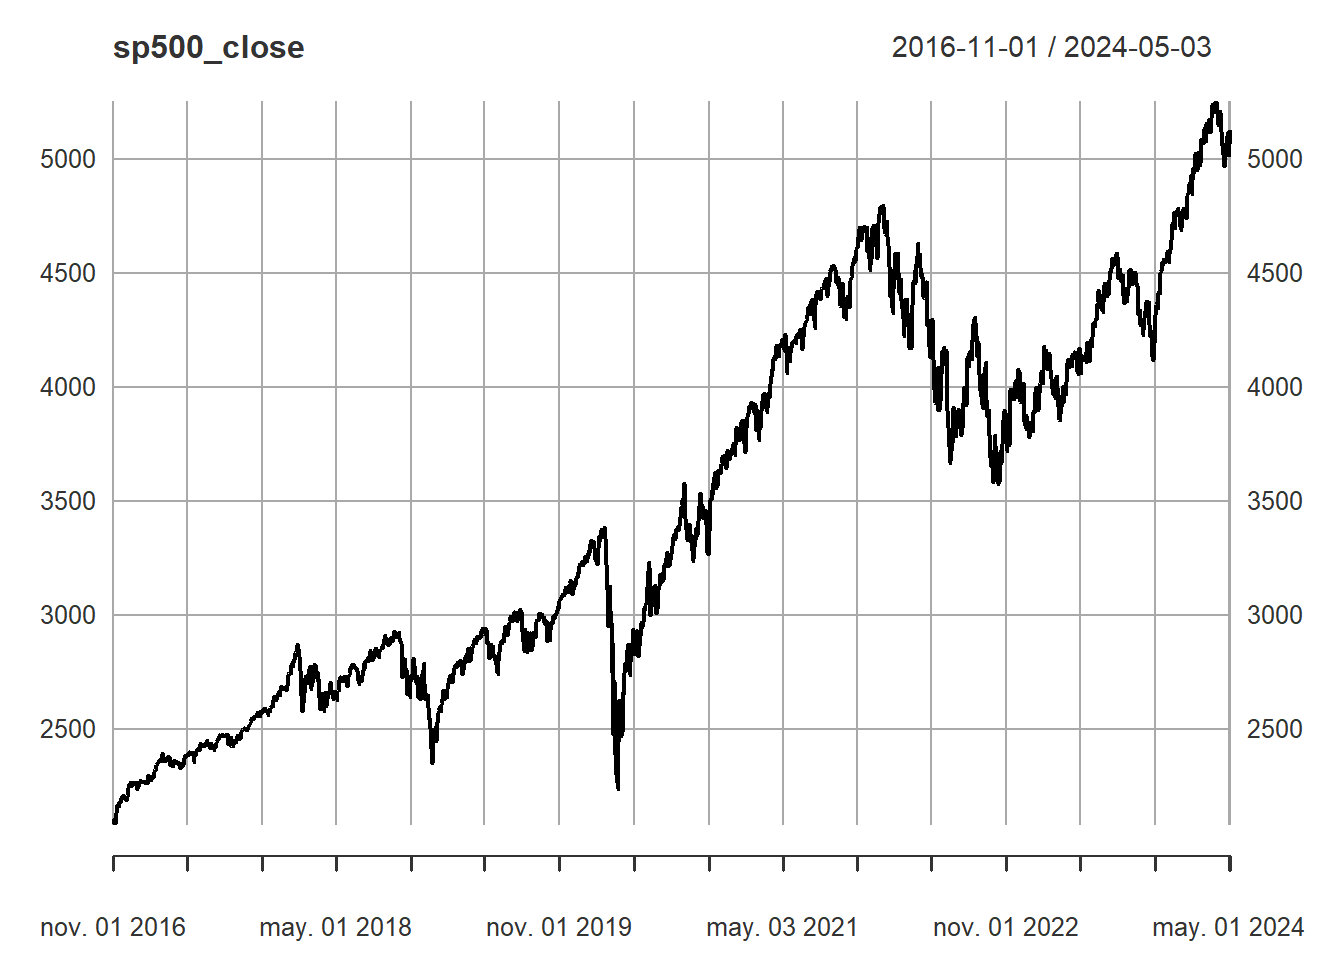
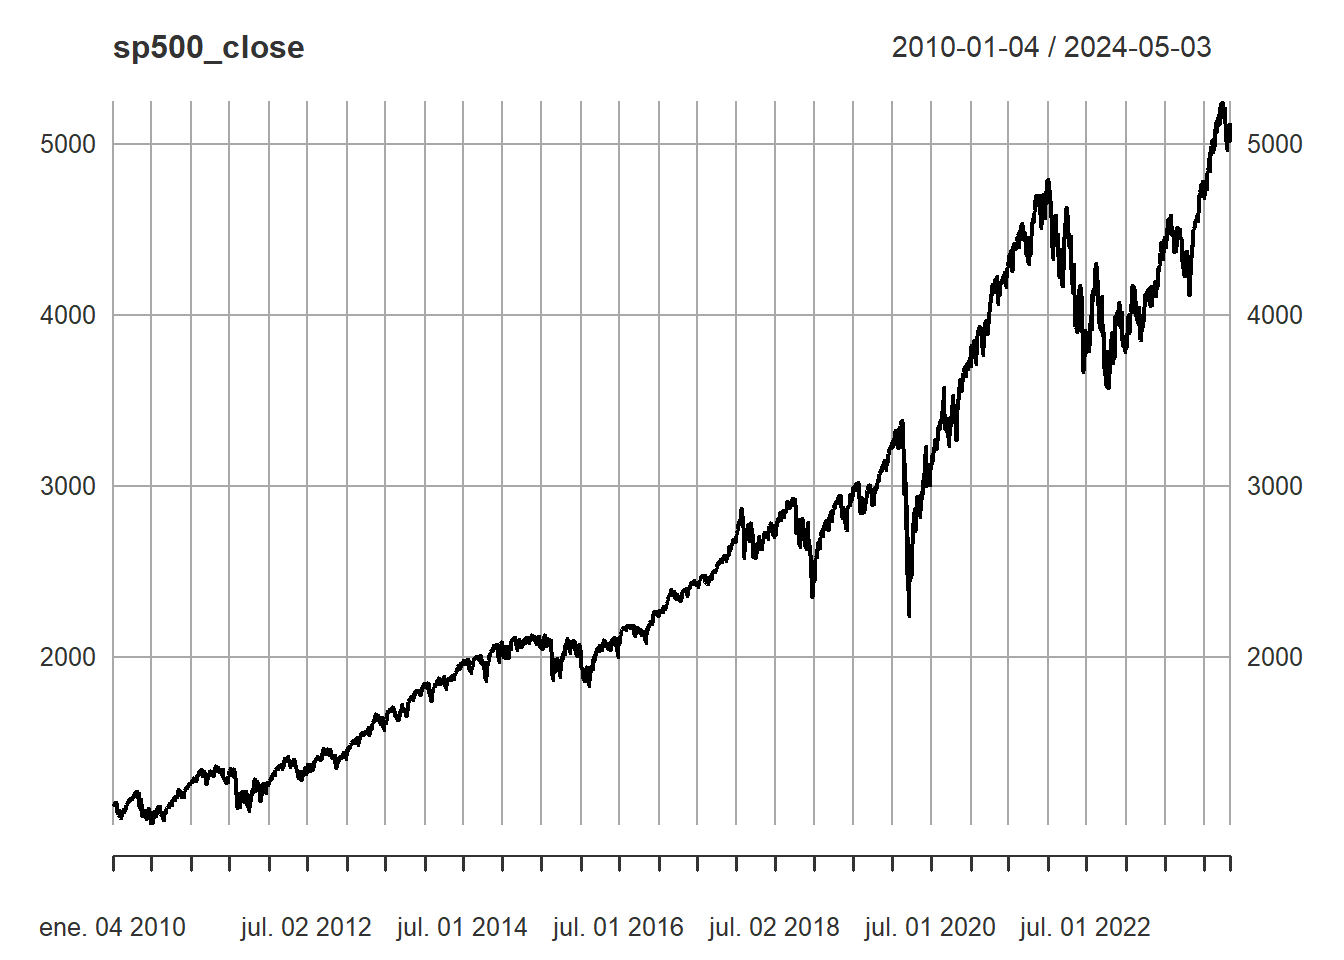
avances semana 2

diff --git a/docs/desarrollo-del-proyecto.html b/docs/desarrollo-del-proyecto.html
@@ -166,21 +166,62 @@ code span.wa { color: #60a0b0; font-weight: bold; font-style: italic; } /* Warni
 <h1><span class="header-section-number">Capítulo 2</span> Desarrollo del proyecto<a href="desarrollo-del-proyecto.html#desarrollo-del-proyecto" class="anchor-section" aria-label="Anchor link to header"></a></h1>
 <p>Para la obtención de los indices de S&amp;P500 usaremos la biblioteca quantmod, esta es una herramienta en R que proporciona funciones para la descarga, manejo y análisis de datos financieros. No almacena ni proporciona datos financieros en sí misma, sino que se basa en diversas fuentes de datos para obtener información del mercado.</p>
 <div class="sourceCode" id="cb1"><pre class="sourceCode r"><code class="sourceCode r"><span id="cb1-1"><a href="desarrollo-del-proyecto.html#cb1-1" tabindex="-1"></a><span class="co"># Cargamos los datos del S&amp;P 500</span></span>
-<span id="cb1-2"><a href="desarrollo-del-proyecto.html#cb1-2" tabindex="-1"></a>sp500_returns <span class="ot">&lt;-</span> <span class="fu">getSymbols</span>(<span class="st">&quot;^GSPC&quot;</span>, <span class="at">from =</span> <span class="st">&quot;2016-11-01&quot;</span>, <span class="at">to =</span> <span class="fu">Sys.Date</span>())</span></code></pre></div>
+<span id="cb1-2"><a href="desarrollo-del-proyecto.html#cb1-2" tabindex="-1"></a>sp500_returns <span class="ot">&lt;-</span> <span class="fu">getSymbols</span>(<span class="st">&quot;^GSPC&quot;</span>, <span class="at">from =</span> <span class="st">&quot;2010-01-01&quot;</span>, <span class="at">to =</span> <span class="fu">Sys.Date</span>())</span></code></pre></div>
 <p>La función <em>getSymbols()</em> descarga los datos del índice S&amp;P 500 desde la fuente de datos especificada y los almacena en un objeto llamado “GSPC”.</p>
 <div class="sourceCode" id="cb2"><pre class="sourceCode r"><code class="sourceCode r"><span id="cb2-1"><a href="desarrollo-del-proyecto.html#cb2-1" tabindex="-1"></a><span class="fu">head</span>(GSPC)</span></code></pre></div>
 <pre><code>##            GSPC.Open GSPC.High GSPC.Low GSPC.Close GSPC.Volume GSPC.Adjusted
-## 2016-11-01   2128.68   2131.45  2097.85    2111.72  4539190000       2111.72
-## 2016-11-02   2109.43   2111.76  2094.00    2097.94  4289120000       2097.94
-## 2016-11-03   2098.80   2102.56  2085.23    2088.66  3892100000       2088.66
-## 2016-11-04   2083.79   2099.07  2083.79    2085.18  3841910000       2085.18
-## 2016-11-07   2100.59   2132.00  2100.59    2131.52  3739720000       2131.52
-## 2016-11-08   2129.92   2146.87  2123.56    2139.56  3921850000       2139.56</code></pre>
+## 2010-01-04   1116.56   1133.87  1116.56    1132.99  3991400000       1132.99
+## 2010-01-05   1132.66   1136.63  1129.66    1136.52  2491020000       1136.52
+## 2010-01-06   1135.71   1139.19  1133.95    1137.14  4972660000       1137.14
+## 2010-01-07   1136.27   1142.46  1131.32    1141.69  5270680000       1141.69
+## 2010-01-08   1140.52   1145.39  1136.22    1144.98  4389590000       1144.98
+## 2010-01-11   1145.96   1149.74  1142.02    1146.98  4255780000       1146.98</code></pre>
 <p>A continuación, realizaremos una conversión de datos a zoo (Z’s Ordered Observations) y ts (Time Series). Un objeto zoo es una serie temporal ordenada que consiste en un vector de datos con una marca de tiempo asociada a cada observación. Esto permite que las observaciones estén indexadas por fechas o por otro tipo de marca de tiempo, mientras un objeto ts es una serie temporal que representa un conjunto de observaciones regularmente espaciadas en el tiempo, como datos mensuales, trimestrales o anuales. Se caracteriza por tener un vector de datos y un vector de fechas o periodos de tiempo.</p>
-<div class="sourceCode" id="cb4"><pre class="sourceCode r"><code class="sourceCode r"><span id="cb4-1"><a href="desarrollo-del-proyecto.html#cb4-1" tabindex="-1"></a><span class="co">#Seleccionamos unicamente el campo de los valores de cierre</span></span>
-<span id="cb4-2"><a href="desarrollo-del-proyecto.html#cb4-2" tabindex="-1"></a>sp500_close <span class="ot">&lt;-</span> GSPC[, <span class="st">&quot;GSPC.Close&quot;</span>]</span>
-<span id="cb4-3"><a href="desarrollo-del-proyecto.html#cb4-3" tabindex="-1"></a><span class="fu">plot</span>(sp500_close)</span></code></pre></div>
-<p><img src="bookdownproj_files/figure-html/unnamed-chunk-5-1.png" width="672" /></p>
+<p>#Conversión a Formato de Serie de Tiempo</p>
+<div class="sourceCode" id="cb4"><pre class="sourceCode r"><code class="sourceCode r"><span id="cb4-1"><a href="desarrollo-del-proyecto.html#cb4-1" tabindex="-1"></a><span class="co">#Realizamos la agrupación por mes</span></span>
+<span id="cb4-2"><a href="desarrollo-del-proyecto.html#cb4-2" tabindex="-1"></a>GSPC_month<span class="ot">=</span><span class="fu">to.monthly</span>(GSPC)</span>
+<span id="cb4-3"><a href="desarrollo-del-proyecto.html#cb4-3" tabindex="-1"></a>GSPC_month</span></code></pre></div>
+<pre><code>##            GSPC.Open GSPC.High GSPC.Low GSPC.Close  GSPC.Volume GSPC.Adjusted
+##  ene. 2010   1116.56   1150.45  1071.59    1073.87  90947580000       1073.87
+##  feb. 2010   1073.89   1112.42  1044.50    1104.49  84561340000       1104.49
+##  mar. 2010   1105.36   1180.69  1105.36    1169.43 103683550000       1169.43
+##  abr. 2010   1171.23   1219.80  1170.69    1186.69 116741910000       1186.69
+##  may. 2010   1188.58   1205.13  1040.78    1089.41 127662780000       1089.41
+##  jun. 2010   1087.30   1131.23  1028.33    1030.71 110106750000       1030.71
+##  jul. 2010   1031.10   1120.95  1010.91    1101.60  94778110000       1101.60
+##  ago. 2010   1107.53   1129.24  1039.70    1049.33  85738250000       1049.33
+## sept. 2010   1049.72   1157.16  1049.72    1141.20  79589450000       1141.20
+##  oct. 2010   1143.49   1196.14  1131.87    1183.26  89536270000       1183.26
+##        ...                                                                   
+##  ago. 2023   4578.83   4584.62  4335.31    4507.66  86840820000       4507.66
+## sept. 2023   4530.60   4541.25  4238.63    4288.05  73482980000       4288.05
+##  oct. 2023   4284.52   4393.57  4103.78    4193.80  83519460000       4193.80
+##  nov. 2023   4201.27   4587.64  4197.74    4567.80  80970570000       4567.80
+##  dic. 2023   4559.43   4793.30  4546.50    4769.83  81530670000       4769.83
+##  ene. 2024   4745.20   4931.09  4682.11    4845.65  81737880000       4845.65
+##  feb. 2024   4861.11   5111.06  4853.52    5096.27  82066930000       5096.27
+##  mar. 2024   5098.51   5264.85  5056.82    5254.35  86299510000       5254.35
+##  abr. 2024   5257.97   5263.95  4953.56    5035.69  81747170000       5035.69
+##  may. 2024   5029.03   5139.12  5011.05    5127.79  12850820000       5127.79</code></pre>
+<p>#Imagen data agrupada por mes</p>
+<div class="sourceCode" id="cb6"><pre class="sourceCode r"><code class="sourceCode r"><span id="cb6-1"><a href="desarrollo-del-proyecto.html#cb6-1" tabindex="-1"></a><span class="fu">plot</span>(GSPC_month<span class="sc">$</span>GSPC.Close)</span></code></pre></div>
+<p><img src="bookdownproj_files/figure-html/unnamed-chunk-6-1.png" width="672" />
+A continuación, realizaremos el proceso de descomposición estacional a la serie temporal utilizando la función decompose(), la cual separa la serie temporal en tres componentes: tendencia, estacionalidad y residuos. Almacenaremos el resultado de esta operación en el objeto GSCP_month_decomp.</p>
+<div class="sourceCode" id="cb7"><pre class="sourceCode r"><code class="sourceCode r"><span id="cb7-1"><a href="desarrollo-del-proyecto.html#cb7-1" tabindex="-1"></a><span class="co"># Descomposición de la data agrupada por mes</span></span>
+<span id="cb7-2"><a href="desarrollo-del-proyecto.html#cb7-2" tabindex="-1"></a><span class="fu">suppressWarnings</span>({</span>
+<span id="cb7-3"><a href="desarrollo-del-proyecto.html#cb7-3" tabindex="-1"></a>  GSCP_month_decomp <span class="ot">&lt;-</span> <span class="fu">decompose</span>(GSPC_month<span class="sc">$</span>GSPC.Close)</span>
+<span id="cb7-4"><a href="desarrollo-del-proyecto.html#cb7-4" tabindex="-1"></a>})</span></code></pre></div>
+<div class="sourceCode" id="cb8"><pre class="sourceCode r"><code class="sourceCode r"><span id="cb8-1"><a href="desarrollo-del-proyecto.html#cb8-1" tabindex="-1"></a><span class="co"># Establecemos el diseño de la ventana de gráficos en tres filas y una columna</span></span>
+<span id="cb8-2"><a href="desarrollo-del-proyecto.html#cb8-2" tabindex="-1"></a><span class="fu">par</span>(<span class="at">mfrow=</span><span class="fu">c</span>(<span class="dv">2</span>,<span class="dv">1</span>))</span>
+<span id="cb8-3"><a href="desarrollo-del-proyecto.html#cb8-3" tabindex="-1"></a></span>
+<span id="cb8-4"><a href="desarrollo-del-proyecto.html#cb8-4" tabindex="-1"></a><span class="fu">plot</span>(GSCP_month_decomp<span class="sc">$</span>trend, <span class="at">main =</span> <span class="st">&quot;Tendencia&quot;</span>)</span>
+<span id="cb8-5"><a href="desarrollo-del-proyecto.html#cb8-5" tabindex="-1"></a></span>
+<span id="cb8-6"><a href="desarrollo-del-proyecto.html#cb8-6" tabindex="-1"></a><span class="fu">plot</span>(GSCP_month_decomp<span class="sc">$</span>seasonal, <span class="at">main =</span> <span class="st">&quot;Estacionalidad&quot;</span>)</span></code></pre></div>
+<p><img src="bookdownproj_files/figure-html/unnamed-chunk-8-1.png" width="672" /></p>
+<div class="sourceCode" id="cb9"><pre class="sourceCode r"><code class="sourceCode r"><span id="cb9-1"><a href="desarrollo-del-proyecto.html#cb9-1" tabindex="-1"></a><span class="co">#plot(GSCP_month_decomp$random, main = &quot;Residuos&quot;)</span></span></code></pre></div>
+<p>En la grafico anterior podemos observar que la tendencia de los indices S&amp;P500 es de incrementalidad, con periodos de estacionalidad de cada 2 años aproximadente.</p>
+<div class="sourceCode" id="cb10"><pre class="sourceCode r"><code class="sourceCode r"><span id="cb10-1"><a href="desarrollo-del-proyecto.html#cb10-1" tabindex="-1"></a><span class="fu">print</span>(GSCP_month_decomp<span class="sc">$</span>random)</span></code></pre></div>
+<pre><code>## integer(0)</code></pre>
 
 </div>
             </section>
